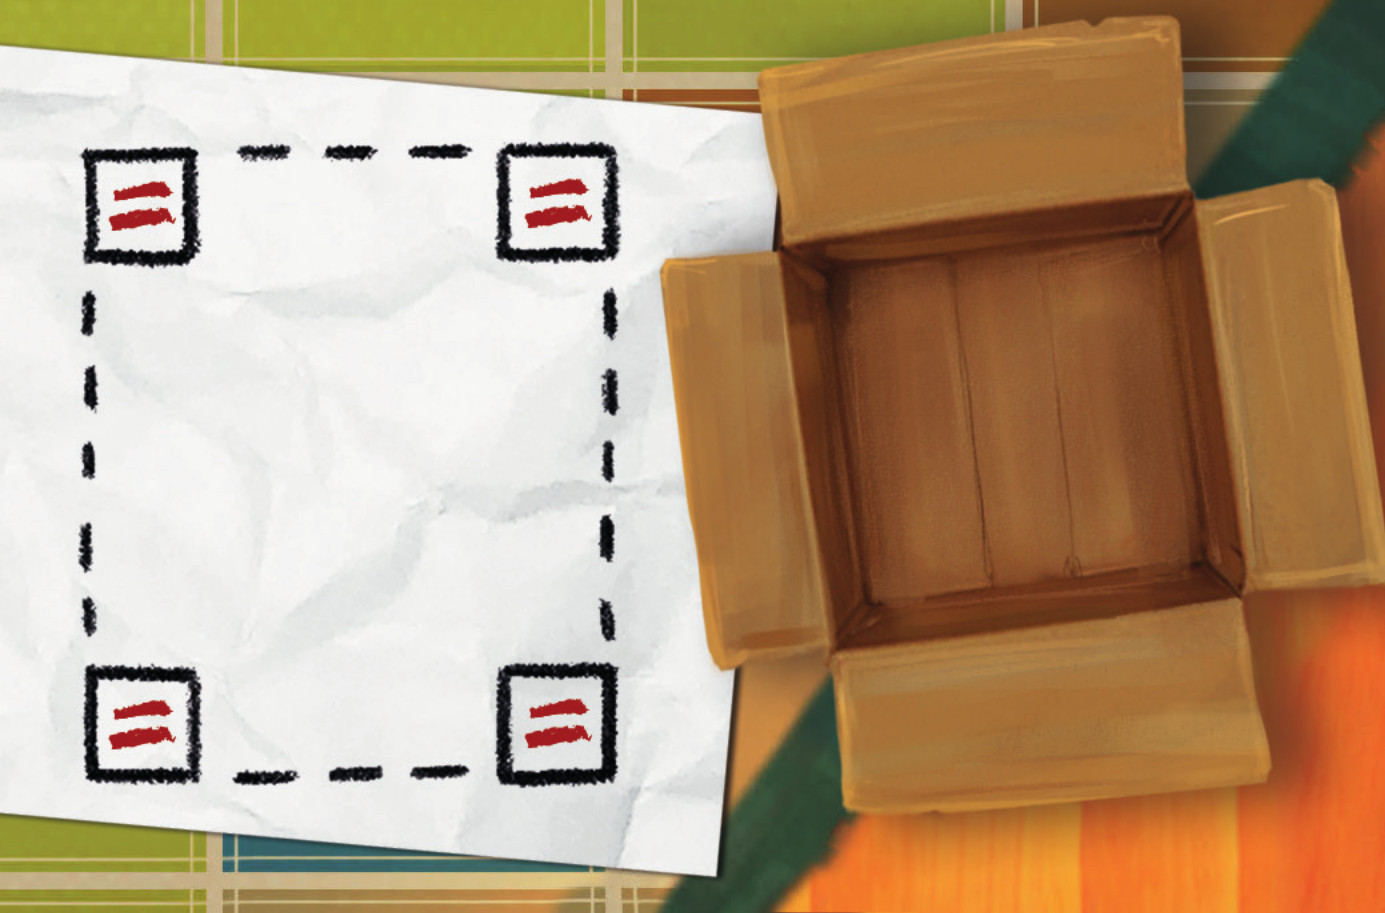
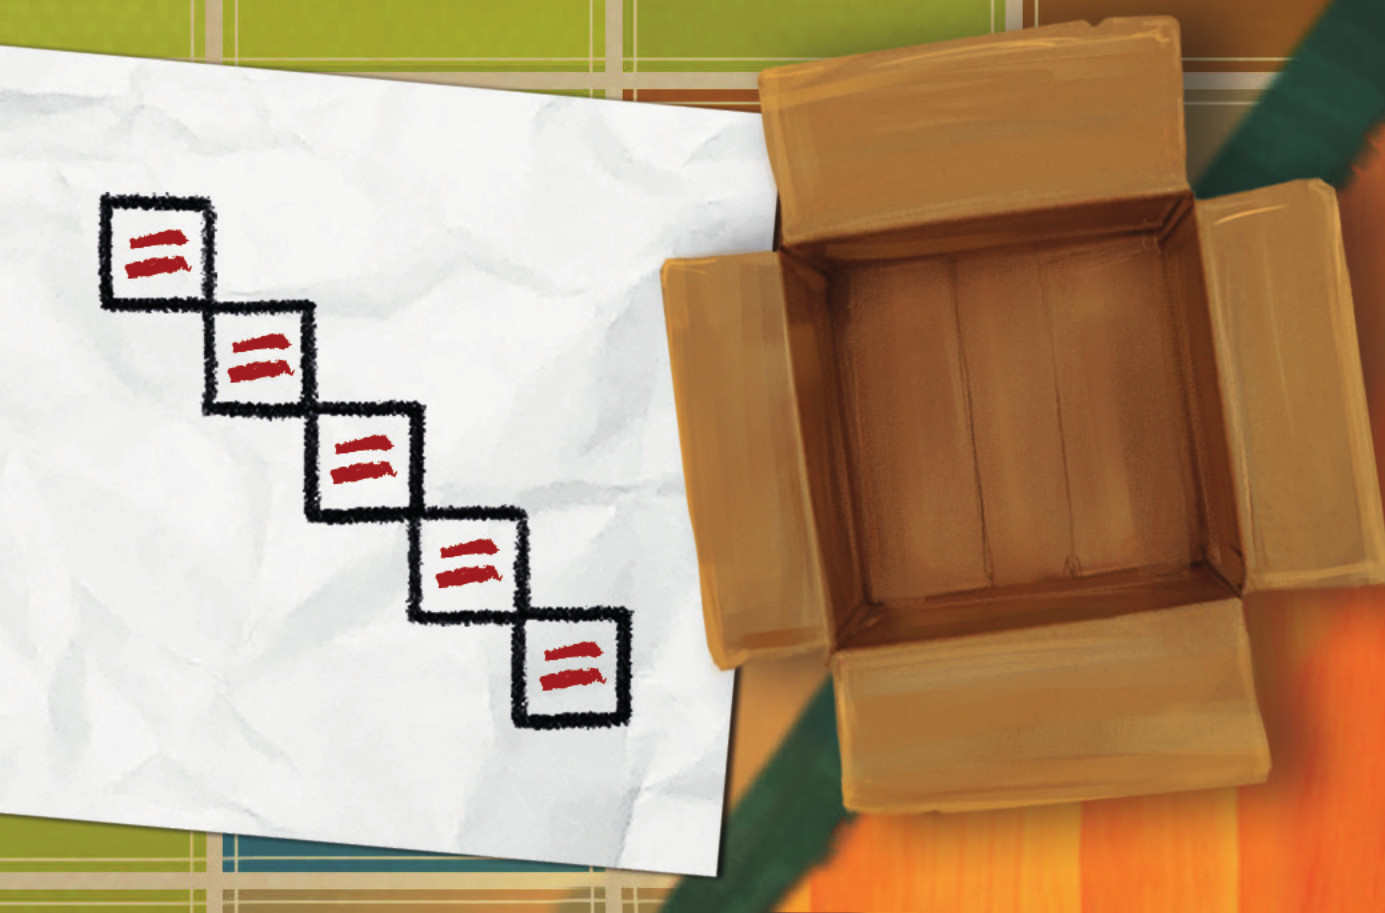
fixed bugs

diff --git a/src/main/java/it/polimi/ingsw/client/view/gui/utils/Utils.java b/src/main/java/it/polimi/ingsw/client/view/gui/utils/Utils.java
@@ -1,14 +1,14 @@
 package it.polimi.ingsw.client.view.gui.utils;
 
 public class Utils {
-    public static final String desc1 = "Six groups each containing at least  2 tiles of the same type (not necessarily in the depicted shape).\nThe tiles of one group can be different from those of another group.";
-    public static final String desc2 = "Four groups each containing at least 4 tiles of the same type (not necessarily in the depicted shape).\nThe tiles of one group can be different from those of another group. ";
+    public static final String desc7 = "Six groups each containing at least  2 tiles of the same type (not necessarily in the depicted shape).\nThe tiles of one group can be different from those of another group.";
+    public static final String desc8 = "Four groups each containing at least 4 tiles of the same type (not necessarily in the depicted shape).\nThe tiles of one group can be different from those of another group. ";
     public static final String desc3 = "Two groups each containing 4 tiles of the same type in a 2x2 square.\nThe tiles of one square can be different from those of the other square.";
-    public static final String desc4 = "Eight tiles of the same type.\nThere’s no  restriction about the position of these tiles.";
-    public static final String desc5 = "Four tiles of the same type in the four corners of the bookshelf.";
-    public static final String desc6 = "Five tiles of the same type forming a diagonal.";
-    public static final String desc7 = " Five columns of increasing or decreasing height.\n Starting from the first column on the left or on the right, each next column must be made of exactly one more tile.\nTiles can be of any type.";
-    public static final String desc8 = "Five tiles of the same type forming an X.";
+    public static final String desc2 = "Eight tiles of the same type.\nThere’s no  restriction about the position of these tiles.";
+    public static final String desc4 = "Four tiles of the same type in the four corners of the bookshelf.";
+    public static final String desc5 = "Five tiles of the same type forming a diagonal.";
+    public static final String desc1 = " Five columns of increasing or decreasing height.\n Starting from the first column on the left or on the right, each next column must be made of exactly one more tile.\nTiles can be of any type.";
+    public static final String desc6 = "Five tiles of the same type forming an X.";
     public static final String desc9 = "Three columns each formed by 6 tiles of maximum three different types.\nOne column can show the same or a different combination of another column.";
     public static final String desc10 = "Four lines each formed by 5 tiles of maximum three different types.\nOne line can show the same or a different combination of another line.";
     public static final String desc11 = "Two columns each formed by 6 different types of tiles.";

diff --git a/src/main/java/it/polimi/ingsw/client/view/gui/guiController/ControllerMainSceneDalila.java b/src/main/java/it/polimi/ingsw/client/view/gui/guiController/ControllerMainSceneDalila.java
@@ -248,7 +248,7 @@ public class ControllerMainSceneDalila implements Initializable {
     public void showGameMessage(String s){
         clearMessage();
         text = new Text(s + "\n");
-        text.setFont(Font.font("Century Schoolbook", FontWeight.NORMAL,25));
+        text.setFont(Font.font("Century Schoolbook", FontWeight.NORMAL,20));
         textFlowGameMessages.getChildren().add(text);
     }
 
